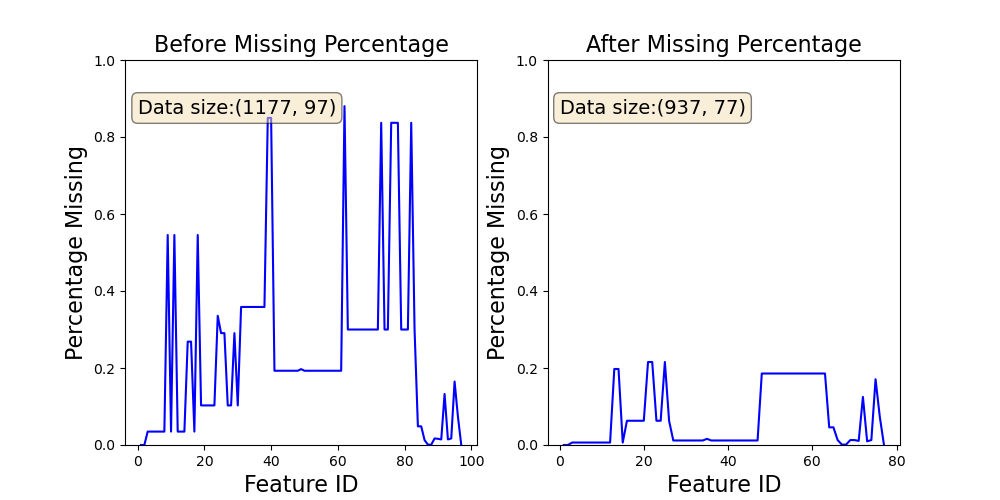
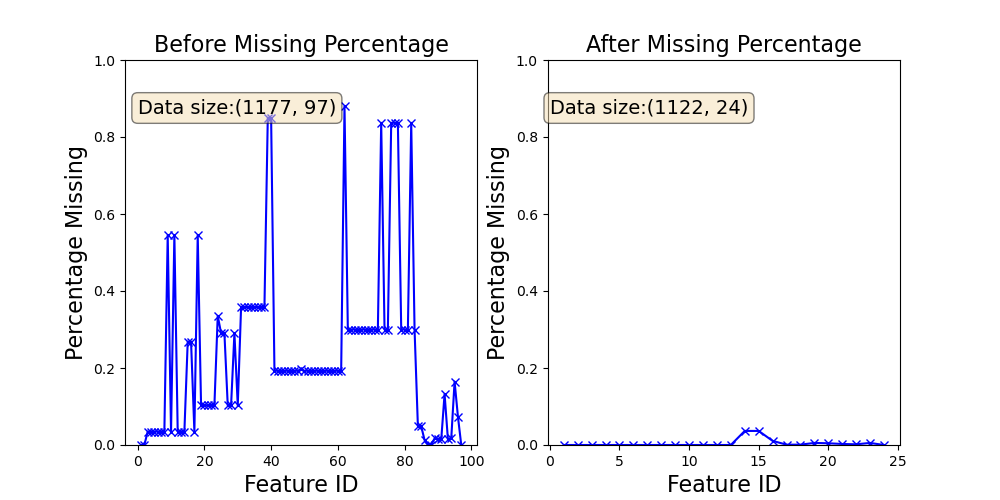
not important enough to comment

diff --git a/test.py b/test.py
@@ -24,25 +24,14 @@ def costFunction(x, y, ŷ, ind):
 
 #It is important for pytorch that with classification, you need to define Y_dataType=torch.int64
 bNet = wuml.basicNetwork(costFunction, data, networkStructure=[(100,'relu'),(100,'relu'),(3,'none')], 
-						Y_dataType=torch.int64, max_epoch=500, learning_rate=0.001)
+						Y_dataType=torch.int64, max_epoch=3000, learning_rate=0.001)
 bNet.train()
+netOutput = bNet(data.X)
 
+#	Output Accuracy
+_, Ŷ = torch.max(netOutput, 1)
 
-#_, predicted = torch.max(outputs, 1)
-#print('Predicted: ', ' '.join('%5s' % classes[predicted[j]] for j in range(4)))
+Acc = wuml.accuracy(data.Y, Ŷ)
+#Acc= accuracy_score(data.Y, Ŷ.cpu().numpy())
+print('Accuracy: %.3f'%Acc)
 
-
-##	Test out on test data
-#newX = np.expand_dims(np.arange(0,5,0.1),1)
-#Ŷ = bNet(newX, output_type='ndarray')		#Takes Numpy array or Tensor as input and outputs a Tensor
-#
-##	plot the results out
-#splot = wplotlib.scatter()
-#splot.add_plot(data.X, data.Y, marker='o')
-#
-#lp = wplotlib.lines()	
-#lp.add_plot(newX, Ŷ)
-#
-#splot.show(title='Basic Network Regression', xlabel='x-axis', ylabel='y-axis')
-#
-#import pdb; pdb.set_trace()

diff --git a/wuml/dependency.py b/wuml/dependency.py
@@ -8,6 +8,7 @@ from sklearn.metrics.cluster import normalized_mutual_info_score
 import matplotlib.pyplot as plt; plt.rcdefaults()
 import matplotlib.pyplot as plt
 from sklearn.preprocessing import KBinsDiscretizer
+from sklearn.metrics import accuracy_score
 from wuml.opt_gaussian import *
 import pandas as pd
 import numpy as np
@@ -79,7 +80,19 @@ def HSIC(X,Y, X_kernel='Gaussian', Y_kernel='Gaussian', sigma_type='opt', normal
 	return H
 
 
+def accuracy(Y, Ŷ):
+	if type(Y).__name__ == 'Tensor': 
+		Y = Y.cpu().numpy()
 
+	if type(Ŷ).__name__ == 'Tensor': 
+		Ŷ = Ŷ.cpu().numpy()
+
+
+	if type(Y).__name__ != 'ndarray' or type(Ŷ).__name__ != 'ndarray': 
+		print('Error: Y must be numpy array or Tensor')
+		exit()
+
+	return accuracy_score(Y, Ŷ)
 
 
 if __name__ == '__main__':

diff --git a/examples/preprocess/decimate_with_missing_data.py b/examples/preprocess/decimate_with_missing_data.py
@@ -3,5 +3,5 @@
 import wuml 
 
 data = wuml.load_csv('../data/chem.exposures.csv', row_id_with_label=0)
-dfSmall = wuml.decimate_data_with_missing_entries(data, column_threshold=0.7, row_threshold=0.7,newDataFramePath='')
+dfSmall = wuml.decimate_data_with_missing_entries(data, column_threshold=0.95, row_threshold=0.9,newDataFramePath='')
 

diff --git a/README.md b/README.md
@@ -5,7 +5,26 @@
 pip install wuml
 ```
 
-## Example of basic regression with pyTorch 
+
+## Decimate Data with Missing data
+```python
+#!/usr/bin/env python
+
+import wuml 
+
+data = wuml.load_csv('../data/chem.exposures.csv', row_id_with_label=0)
+dfSmall = wuml.decimate_data_with_missing_entries(data, column_threshold=0.95, row_threshold=0.9,newDataFramePath='') 
+
+#	column_threshold=0.95, this will keep features that are at least 95% full
+
+```
+![Image](https://github.com/endsley/wuML/blob/main/img/Regression.png?raw=true)
+
+
+
+
+
+## Example of basic regression 
 ```python
 #!/usr/bin/env python
 
@@ -48,5 +67,62 @@ splot.show(title='Basic Network Regression', xlabel='x-axis', ylabel='y-axis')
 
 ```
 ![Image](https://github.com/endsley/wuML/blob/main/img/Regression.png?raw=true)
+
+
+## Example of basic classification 
+```python
+#!/usr/bin/env python
+
+import wuml
+import numpy as np
+import torch
+import torch.nn as nn
+import wplotlib
+
+
+#	The idea of training a neural network boils down to 3 steps
+#		1. Define a network structure
+#			Example: This is a 3 layer network with 100 node width
+#				networkStructure=[(100,'relu'),(100,'relu'),(1,'softmax')]
+#		2. Define a cost function
+#		3. Call train()
+
+data = wuml.load_csv(xpath='examples/data/wine.csv', ypath='examples/data/wine_label.csv', batch_size=20)
+
+def costFunction(x, y, ŷ, ind):
+	lossFun = nn.CrossEntropyLoss() 
+	loss = lossFun(ŷ, y) #weird from pytorch, dim of y is 1, and ŷ is 20x3	
+	return loss
+
+
+#It is important for pytorch that with classification, you need to define Y_dataType=torch.int64
+bNet = wuml.basicNetwork(costFunction, data, networkStructure=[(100,'relu'),(100,'relu'),(3,'none')], 
+						Y_dataType=torch.int64, max_epoch=3000, learning_rate=0.001)
+bNet.train()
+netOutput = bNet(data.X)
+
+#	Output Accuracy
+_, Ŷ = torch.max(netOutput, 1)
+
+Acc = wuml.accuracy(Y, Ŷ)
+#Acc= accuracy_score(data.Y, Ŷ.cpu().numpy())
+print('Accuracy: %.3f'%Acc)
+
+```
+
+#### **Code Output**
+```python
+Network Info:
+	Learning rate: 0.001
+	Max number of epochs: 3000
+	Cuda Available: True
+	Network Structure
+		Linear(in_features=13, out_features=100, bias=True) , relu
+		Linear(in_features=100, out_features=100, bias=True) , relu
+		Linear(in_features=100, out_features=3, bias=True) , none
+	epoch: 3000, Avg Loss: 0.0442, Learning Rate: 0.00001563Accuracy: 0.989
+
+```
+
 
 
